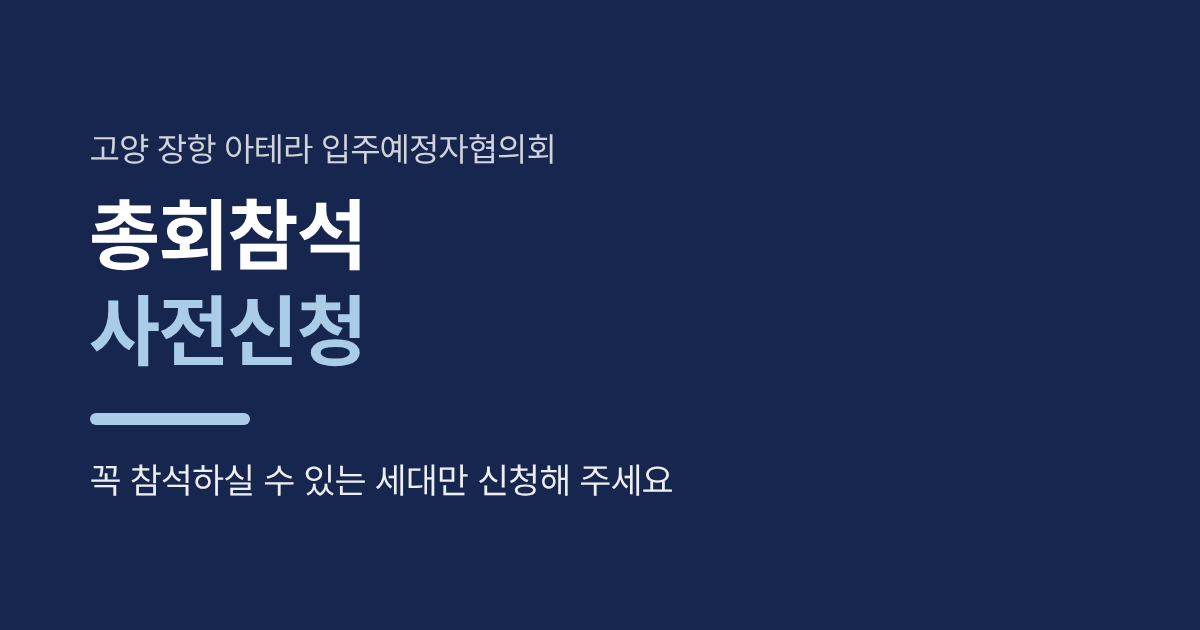
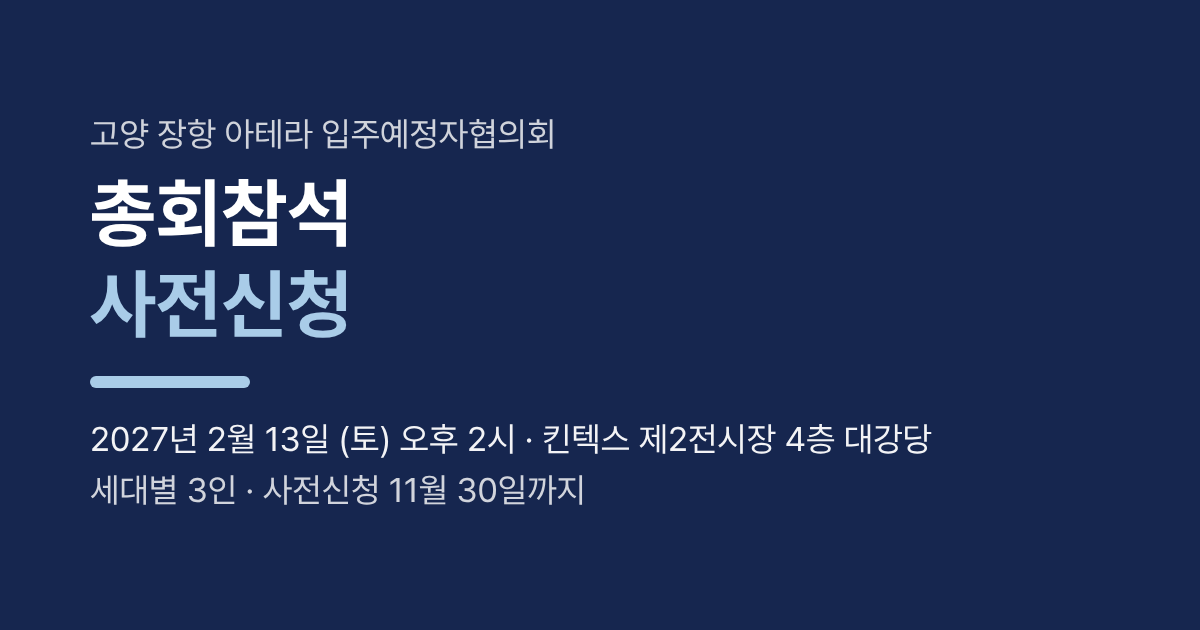
총회 일정 확정 반영(2027.2.13 킨텍스 · 세대별 3인 · 사전신청 11.30까지 · 기존 신청 인원 변경 안내)
Claude-Session: https://claude.ai/code/session_013B34XReFhMktPE2pUURqEZ

Changed region(s): [[0.0617, 0.181, 0.7708, 0.8143]]

diff --git a/index.html b/index.html
@@ -566,14 +566,16 @@ window.JLDeed=deed;   /* 점검용 — 동의서 1장 그리기 */
 Install.init();
 /* ═════════ 총회참석 사전신청 (별도 링크 rsvp.html) ═════════ */
 var RV={};
+/* 서버가 아직 2명 제한(이전 워커)일 때 3명 신청 안내 */
+function rvMsg(j,cn){return cn>2&&/1~2명/.test(j.message||'')?'3명 신청은 서버 반영 중입니다. 잠시 후 다시 시도해 주세요 (2명 이하는 바로 신청 · 변경 가능)':j.message}
 function rvInfo(){return '<div class="card"><h2>총회 안내</h2>'+
-  '<div class="stmt">본 신청은 <b>사전접수</b>로, 현장에서 사전 접수한 세대 확인 후 입장이 가능합니다. 또한 조사된 인원에 맞춰 장소를 대관하고자 합니다.<br>총회에는 많은 비용이 소요되니 <b>꼭 참석하실 수 있는 세대만</b> 신청해 주셔야 하며, 입주 관련 중요한 사안에 대한 설명회가 진행되오니 각 세대별 꼭 참석해 주시기 바랍니다.</div>'+
+  '<div class="stmt">본 신청은 <b>사전접수</b>로, 현장에서 사전 접수한 세대 확인 후 입장이 가능합니다. 사전신청은 <b>2026년 11월 30일까지</b> 받아 최종 참석 인원을 확정합니다.<br>총회에는 많은 비용이 소요되니 <b>꼭 참석하실 수 있는 세대만</b> 신청해 주셔야 하며, 입주 관련 중요한 사안에 대한 설명회가 진행되오니 각 세대별 꼭 참석해 주시기 바랍니다.</div>'+
   '<h3 style="margin:14px 0 4px">총회 가이드</h3><table class="rv-t">'+
-  '<tr><th>일시</th><td>2027년 2월 13일 또는 20일 (토)<br>오후 1시부터 약 3시간</td></tr>'+
-  '<tr><th>장소</th><td>일산 또는 일산 근접 지역<br><span class="muted">(추후 세부 공지 예정)</span></td></tr>'+
-  '<tr><th>참석 제한</th><td>세대별 <b>2명</b>까지</td></tr>'+
+  '<tr><th>일시</th><td><b>2027년 2월 13일 (토)</b><br>오후 2시 ~ 5시</td></tr>'+
+  '<tr><th>장소</th><td><b>킨텍스 제2전시장 4층 대강당</b><br>(403~404호 · 총 600석)</td></tr>'+
+  '<tr><th>참석 제한</th><td>세대별 <b>3인</b><br><span class="muted">(총 좌석이 600석으로 선착순 입장이며, 좌석 부족 시 입식 참여 가능합니다.)</span></td></tr>'+'<tr><th>사전신청 마감</th><td><b>2026년 11월 30일</b>까지</td></tr>'+
   '<tr><th>총회 안건</th><td><ul class="rv-ul"><li>입예협 활동 보고 및 계획</li><li>사전점검 및 입주 본박람회 안내</li><li>인테리어 가이드</li><li>대출 및 소유권이전등기 안내 및 지원</li></ul></td></tr></table>'+
-  '<div id="rvCnt"></div></div>'}
+  '<div class="stmt" style="margin-top:12px"><b>이미 사전신청하신 세대</b>도 아래 「내 사전신청 확인 · 변경 · 취소」에서 참석 인원을 <b>최대 3명</b>까지 바꾸실 수 있습니다.</div><button class="btn ghost" id="mineTop" style="margin-top:10px">이미 신청하셨나요? 인원 변경 · 취소</button>'+'<div id="rvCnt"></div></div>'}
 function rvForm(){
   var dongs=Object.keys(L);
   h(head()+'<div class="wrap">'+rvInfo()+
@@ -582,14 +584,14 @@ function rvForm(){
   '<label class="f">호수</label><select class="t" id="ho"></select>'+
   '<label class="f">이름</label><input class="t" id="nm" autocomplete="name" maxlength="20" value="'+esc(RV.name)+'">'+
   '<div class="row2"><div><label class="f">연락처</label><input class="t" id="ph" inputmode="tel" placeholder="01012345678" maxlength="13" value="'+esc(digits(RV.phone))+'"></div>'+
-  '<div><label class="f">참석 인원</label><select class="t" id="cn">'+[1,2].map(function(n){return'<option value="'+n+'"'+(+RV.count===n?' selected':'')+'>'+n+'명</option>'}).join('')+'</select></div></div>'+
-  '<p class="muted" style="margin:6px 0 0">참석 인원은 세대별 최대 2명입니다.</p>'+
+  '<div><label class="f">참석 인원</label><select class="t" id="cn">'+[1,2,3].map(function(n){return'<option value="'+n+'"'+(+RV.count===n?' selected':'')+'>'+n+'명</option>'}).join('')+'</select></div></div>'+
+  '<p class="muted" style="margin:6px 0 0">참석 인원은 세대별 최대 3명입니다. (총 600석 · 선착순 입장 · 좌석 부족 시 입식 참여)</p>'+
   '<label class="tog"><input type="checkbox" id="su"> 꼭 참석할 수 있습니다</label>'+
-  '<div class="pv"><b>수집 항목</b> 동호수, 이름, 연락처, 참석 인원<br><b>이용 목적</b> 총회 참석 인원 파악 및 장소 대관 · 총회 안내 연락<br><b>보관 기간</b> 총회가 끝날 때까지 (끝나면 지체 없이 파기)<br>동의하지 않으실 수 있으나, 이 경우 온라인 신청이 되지 않습니다.</div>'+
+  '<div class="pv"><b>수집 항목</b> 동호수, 이름, 연락처, 참석 인원<br><b>이용 목적</b> 총회 참석 인원 파악 · 입장 확인 · 총회 안내 연락<br><b>보관 기간</b> 총회가 끝날 때까지 (끝나면 지체 없이 파기)<br>동의하지 않으실 수 있으나, 이 경우 온라인 신청이 되지 않습니다.</div>'+
   '<label class="tog"><input type="checkbox" id="pv"> 개인정보 수집 · 이용에 동의합니다</label>'+
   '<div class="err" id="er"></div><button class="btn go-pulse" id="go">총회참석 사전신청</button></div>'+
   '<div class="card"><h2>이미 사전신청하셨나요?</h2><p class="muted" style="margin:0">인원 변경 · 사전신청 취소가 가능합니다.</p><button class="btn ghost" id="mine">내 사전신청 확인 · 변경 · 취소</button></div>'+foot()+'</div>');
-  $('#mine').onclick=function(){rvMine()};
+  $('#mine').onclick=function(){rvMine()};$('#mineTop').onclick=function(){rvMine()};
   function fillHo(){var x=$('#ho');if(!RV.dong){x.innerHTML='<option value="">동을 먼저 고르세요</option>';x.disabled=true;return}
     x.disabled=false;x.innerHTML='<option value="">호수 선택</option>'+hos(RV.dong).map(function(n){return'<option'+(String(n)===String(RV.ho)?' selected':'')+'>'+n+'</option>'}).join('')}
   Array.prototype.forEach.call(document.querySelectorAll('.dongs button'),function(b){b.onclick=function(){RV.dong=b.getAttribute('data-d');RV.ho='';Array.prototype.forEach.call(document.querySelectorAll('.dongs button'),function(x){x.classList.toggle('on',x===b)});fillHo()}});
@@ -604,14 +606,14 @@ function rvForm(){
     if(!$('#pv').checked)return er.textContent='개인정보 수집 · 이용에 동의해 주셔야 신청할 수 있습니다';
     RV.ho=ho;RV.name=nm;RV.phone=ph;RV.count=cn;b.disabled=true;b.textContent='신청 중…';er.textContent='';
     post('/rsvp',{dong:RV.dong,ho:ho,name:nm,phone:ph,count:cn,sure:true,privacy:true}).then(function(j){
-      if(!j.ok){b.disabled=false;b.textContent='총회참석 사전신청';er.textContent=j._s===404?'신청 접수 준비 중입니다. 잠시 후 다시 시도해 주세요':j.message;return}
+      if(!j.ok){b.disabled=false;b.textContent='총회참석 사전신청';er.textContent=j._s===404?'신청 접수 준비 중입니다. 잠시 후 다시 시도해 주세요':rvMsg(j,cn);return}
       rvDone('사전신청되었습니다',RV.dong+'동 '+ho+'호 · '+nm+' · '+cn+'명',j.no);
     });
   };
 }
 function rvDone(title,line,no){
   h(head()+'<div class="wrap"><div class="card done"><div class="ic">✓</div><h2>'+esc(title)+'</h2><p class="muted">'+esc(line)+(no?'<br>접수번호 '+esc(no):'')+'</p>'+
-    '<p class="muted">총회 일시 · 장소가 확정되면 카페와 연락처로 안내드립니다.<br>인원 변경 · 취소는 「내 사전신청 확인」에서 할 수 있습니다.</p>'+
+    '<p class="muted">총회 : 2027년 2월 13일 (토) 오후 2시 ~ 5시 · 킨텍스 제2전시장 4층 대강당 (403~404호)<br>인원 변경(최대 3명) · 취소는 「내 사전신청 확인」에서 할 수 있습니다. (사전신청 마감 2026년 11월 30일)</p>'+
     '<button class="btn ghost" id="mine">내 사전신청 확인 · 변경 · 취소</button><button class="btn ghost" id="again">다른 세대 사전신청</button><a class="btn ghost" href="'+esc(C.cafe)+'" target="_blank" rel="noopener">네이버 카페</a></div>'+foot()+'</div>');
   $('#again').onclick=function(){RV={};rvForm()};$('#mine').onclick=function(){rvMine()};
 }
@@ -639,12 +641,12 @@ function rvMine(){
 function rvMineEdit(r){
   h(head()+'<div class="wrap"><div class="card"><h2>내 사전신청</h2><table class="rv-t"><tr><th>동호수</th><td>'+esc(r.dong+'동 '+r.ho+'호')+'</td></tr><tr><th>이름</th><td>'+esc(r.name)+'</td></tr>'+
   '<tr><th>참석 인원</th><td><b>'+esc(r.count)+'명</b></td></tr><tr><th>신청 일시</th><td>'+esc(r.at)+'</td></tr></table>'+
-  '<h3>참석 인원 변경</h3><div class="row2"><select class="t" id="cn">'+[1,2].map(function(n){return'<option value="'+n+'"'+(+r.count===n?' selected':'')+'>'+n+'명</option>'}).join('')+'</select><button class="btn" id="chg" style="margin-top:6px">인원 변경</button></div>'+
-  '<h3>사전신청 취소</h3><p class="muted" style="margin:0">참석이 어려워지셨다면 취소해 주세요. 대관 인원에서 빠집니다.</p><button class="btn ghost" id="cx" style="color:var(--no);border-color:var(--no)">사전신청 취소</button>'+
+  '<h3>참석 인원 변경</h3><p class="muted" style="margin:0 0 6px">세대별 최대 3명까지 바꿀 수 있습니다.</p><div class="row2"><select class="t" id="cn">'+[1,2,3].map(function(n){return'<option value="'+n+'"'+(+r.count===n?' selected':'')+'>'+n+'명</option>'}).join('')+'</select><button class="btn" id="chg" style="margin-top:6px">인원 변경</button></div>'+
+  '<h3>사전신청 취소</h3><p class="muted" style="margin:0">참석이 어려워지셨다면 취소해 주세요. 참석 인원에서 빠집니다.</p><button class="btn ghost" id="cx" style="color:var(--no);border-color:var(--no)">사전신청 취소</button>'+
   '<div class="err" id="er"></div><button class="btn ghost" id="bk">신청 화면으로</button></div>'+foot()+'</div>');
   $('#bk').onclick=function(){rvForm()};
   $('#chg').onclick=function(){var b=this,cn=+$('#cn').value;if(cn===+r.count)return $('#er').textContent='지금과 같은 인원입니다';b.disabled=true;
-    post('/rsvp-edit',{dong:r.dong,ho:r.ho,phone:MY.phone,count:cn}).then(function(j){b.disabled=false;if(!j.ok)return $('#er').textContent=j.message;rvDone('참석 인원이 변경되었습니다',r.dong+'동 '+r.ho+'호 · '+r.name+' · '+cn+'명',j.no)})};
+    post('/rsvp-edit',{dong:r.dong,ho:r.ho,phone:MY.phone,count:cn}).then(function(j){b.disabled=false;if(!j.ok)return $('#er').textContent=rvMsg(j,cn);rvDone('참석 인원이 변경되었습니다',r.dong+'동 '+r.ho+'호 · '+r.name+' · '+cn+'명',j.no)})};
   $('#cx').onclick=function(){if(!confirm(r.dong+'동 '+r.ho+'호 총회참석 사전신청을 취소할까요?'))return;var b=this;b.disabled=true;
     post('/rsvp-edit',{dong:r.dong,ho:r.ho,phone:MY.phone,cancel:true}).then(function(j){b.disabled=false;if(!j.ok)return $('#er').textContent=j.message;
       h(head()+'<div class="wrap"><div class="card done"><div class="ic" style="background:#6A7385">✕</div><h2>신청이 취소되었습니다</h2><p class="muted">'+esc(r.dong+'동 '+r.ho+'호')+'</p><button class="btn ghost" id="again">다시 사전신청</button></div>'+foot()+'</div>');$('#again').onclick=function(){RV={};rvForm()}})};

diff --git a/rsvp.html b/rsvp.html
@@ -566,14 +566,16 @@ window.JLDeed=deed;   /* 점검용 — 동의서 1장 그리기 */
 Install.init();
 /* ═════════ 총회참석 사전신청 (별도 링크 rsvp.html) ═════════ */
 var RV={};
+/* 서버가 아직 2명 제한(이전 워커)일 때 3명 신청 안내 */
+function rvMsg(j,cn){return cn>2&&/1~2명/.test(j.message||'')?'3명 신청은 서버 반영 중입니다. 잠시 후 다시 시도해 주세요 (2명 이하는 바로 신청 · 변경 가능)':j.message}
 function rvInfo(){return '<div class="card"><h2>총회 안내</h2>'+
-  '<div class="stmt">본 신청은 <b>사전접수</b>로, 현장에서 사전 접수한 세대 확인 후 입장이 가능합니다. 또한 조사된 인원에 맞춰 장소를 대관하고자 합니다.<br>총회에는 많은 비용이 소요되니 <b>꼭 참석하실 수 있는 세대만</b> 신청해 주셔야 하며, 입주 관련 중요한 사안에 대한 설명회가 진행되오니 각 세대별 꼭 참석해 주시기 바랍니다.</div>'+
+  '<div class="stmt">본 신청은 <b>사전접수</b>로, 현장에서 사전 접수한 세대 확인 후 입장이 가능합니다. 사전신청은 <b>2026년 11월 30일까지</b> 받아 최종 참석 인원을 확정합니다.<br>총회에는 많은 비용이 소요되니 <b>꼭 참석하실 수 있는 세대만</b> 신청해 주셔야 하며, 입주 관련 중요한 사안에 대한 설명회가 진행되오니 각 세대별 꼭 참석해 주시기 바랍니다.</div>'+
   '<h3 style="margin:14px 0 4px">총회 가이드</h3><table class="rv-t">'+
-  '<tr><th>일시</th><td>2027년 2월 13일 또는 20일 (토)<br>오후 1시부터 약 3시간</td></tr>'+
-  '<tr><th>장소</th><td>일산 또는 일산 근접 지역<br><span class="muted">(추후 세부 공지 예정)</span></td></tr>'+
-  '<tr><th>참석 제한</th><td>세대별 <b>2명</b>까지</td></tr>'+
+  '<tr><th>일시</th><td><b>2027년 2월 13일 (토)</b><br>오후 2시 ~ 5시</td></tr>'+
+  '<tr><th>장소</th><td><b>킨텍스 제2전시장 4층 대강당</b><br>(403~404호 · 총 600석)</td></tr>'+
+  '<tr><th>참석 제한</th><td>세대별 <b>3인</b><br><span class="muted">(총 좌석이 600석으로 선착순 입장이며, 좌석 부족 시 입식 참여 가능합니다.)</span></td></tr>'+'<tr><th>사전신청 마감</th><td><b>2026년 11월 30일</b>까지</td></tr>'+
   '<tr><th>총회 안건</th><td><ul class="rv-ul"><li>입예협 활동 보고 및 계획</li><li>사전점검 및 입주 본박람회 안내</li><li>인테리어 가이드</li><li>대출 및 소유권이전등기 안내 및 지원</li></ul></td></tr></table>'+
-  '<div id="rvCnt"></div></div>'}
+  '<div class="stmt" style="margin-top:12px"><b>이미 사전신청하신 세대</b>도 아래 「내 사전신청 확인 · 변경 · 취소」에서 참석 인원을 <b>최대 3명</b>까지 바꾸실 수 있습니다.</div><button class="btn ghost" id="mineTop" style="margin-top:10px">이미 신청하셨나요? 인원 변경 · 취소</button>'+'<div id="rvCnt"></div></div>'}
 function rvForm(){
   var dongs=Object.keys(L);
   h(head()+'<div class="wrap">'+rvInfo()+
@@ -582,14 +584,14 @@ function rvForm(){
   '<label class="f">호수</label><select class="t" id="ho"></select>'+
   '<label class="f">이름</label><input class="t" id="nm" autocomplete="name" maxlength="20" value="'+esc(RV.name)+'">'+
   '<div class="row2"><div><label class="f">연락처</label><input class="t" id="ph" inputmode="tel" placeholder="01012345678" maxlength="13" value="'+esc(digits(RV.phone))+'"></div>'+
-  '<div><label class="f">참석 인원</label><select class="t" id="cn">'+[1,2].map(function(n){return'<option value="'+n+'"'+(+RV.count===n?' selected':'')+'>'+n+'명</option>'}).join('')+'</select></div></div>'+
-  '<p class="muted" style="margin:6px 0 0">참석 인원은 세대별 최대 2명입니다.</p>'+
+  '<div><label class="f">참석 인원</label><select class="t" id="cn">'+[1,2,3].map(function(n){return'<option value="'+n+'"'+(+RV.count===n?' selected':'')+'>'+n+'명</option>'}).join('')+'</select></div></div>'+
+  '<p class="muted" style="margin:6px 0 0">참석 인원은 세대별 최대 3명입니다. (총 600석 · 선착순 입장 · 좌석 부족 시 입식 참여)</p>'+
   '<label class="tog"><input type="checkbox" id="su"> 꼭 참석할 수 있습니다</label>'+
-  '<div class="pv"><b>수집 항목</b> 동호수, 이름, 연락처, 참석 인원<br><b>이용 목적</b> 총회 참석 인원 파악 및 장소 대관 · 총회 안내 연락<br><b>보관 기간</b> 총회가 끝날 때까지 (끝나면 지체 없이 파기)<br>동의하지 않으실 수 있으나, 이 경우 온라인 신청이 되지 않습니다.</div>'+
+  '<div class="pv"><b>수집 항목</b> 동호수, 이름, 연락처, 참석 인원<br><b>이용 목적</b> 총회 참석 인원 파악 · 입장 확인 · 총회 안내 연락<br><b>보관 기간</b> 총회가 끝날 때까지 (끝나면 지체 없이 파기)<br>동의하지 않으실 수 있으나, 이 경우 온라인 신청이 되지 않습니다.</div>'+
   '<label class="tog"><input type="checkbox" id="pv"> 개인정보 수집 · 이용에 동의합니다</label>'+
   '<div class="err" id="er"></div><button class="btn go-pulse" id="go">총회참석 사전신청</button></div>'+
   '<div class="card"><h2>이미 사전신청하셨나요?</h2><p class="muted" style="margin:0">인원 변경 · 사전신청 취소가 가능합니다.</p><button class="btn ghost" id="mine">내 사전신청 확인 · 변경 · 취소</button></div>'+foot()+'</div>');
-  $('#mine').onclick=function(){rvMine()};
+  $('#mine').onclick=function(){rvMine()};$('#mineTop').onclick=function(){rvMine()};
   function fillHo(){var x=$('#ho');if(!RV.dong){x.innerHTML='<option value="">동을 먼저 고르세요</option>';x.disabled=true;return}
     x.disabled=false;x.innerHTML='<option value="">호수 선택</option>'+hos(RV.dong).map(function(n){return'<option'+(String(n)===String(RV.ho)?' selected':'')+'>'+n+'</option>'}).join('')}
   Array.prototype.forEach.call(document.querySelectorAll('.dongs button'),function(b){b.onclick=function(){RV.dong=b.getAttribute('data-d');RV.ho='';Array.prototype.forEach.call(document.querySelectorAll('.dongs button'),function(x){x.classList.toggle('on',x===b)});fillHo()}});
@@ -604,14 +606,14 @@ function rvForm(){
     if(!$('#pv').checked)return er.textContent='개인정보 수집 · 이용에 동의해 주셔야 신청할 수 있습니다';
     RV.ho=ho;RV.name=nm;RV.phone=ph;RV.count=cn;b.disabled=true;b.textContent='신청 중…';er.textContent='';
     post('/rsvp',{dong:RV.dong,ho:ho,name:nm,phone:ph,count:cn,sure:true,privacy:true}).then(function(j){
-      if(!j.ok){b.disabled=false;b.textContent='총회참석 사전신청';er.textContent=j._s===404?'신청 접수 준비 중입니다. 잠시 후 다시 시도해 주세요':j.message;return}
+      if(!j.ok){b.disabled=false;b.textContent='총회참석 사전신청';er.textContent=j._s===404?'신청 접수 준비 중입니다. 잠시 후 다시 시도해 주세요':rvMsg(j,cn);return}
       rvDone('사전신청되었습니다',RV.dong+'동 '+ho+'호 · '+nm+' · '+cn+'명',j.no);
     });
   };
 }
 function rvDone(title,line,no){
   h(head()+'<div class="wrap"><div class="card done"><div class="ic">✓</div><h2>'+esc(title)+'</h2><p class="muted">'+esc(line)+(no?'<br>접수번호 '+esc(no):'')+'</p>'+
-    '<p class="muted">총회 일시 · 장소가 확정되면 카페와 연락처로 안내드립니다.<br>인원 변경 · 취소는 「내 사전신청 확인」에서 할 수 있습니다.</p>'+
+    '<p class="muted">총회 : 2027년 2월 13일 (토) 오후 2시 ~ 5시 · 킨텍스 제2전시장 4층 대강당 (403~404호)<br>인원 변경(최대 3명) · 취소는 「내 사전신청 확인」에서 할 수 있습니다. (사전신청 마감 2026년 11월 30일)</p>'+
     '<button class="btn ghost" id="mine">내 사전신청 확인 · 변경 · 취소</button><button class="btn ghost" id="again">다른 세대 사전신청</button><a class="btn ghost" href="'+esc(C.cafe)+'" target="_blank" rel="noopener">네이버 카페</a></div>'+foot()+'</div>');
   $('#again').onclick=function(){RV={};rvForm()};$('#mine').onclick=function(){rvMine()};
 }
@@ -639,12 +641,12 @@ function rvMine(){
 function rvMineEdit(r){
   h(head()+'<div class="wrap"><div class="card"><h2>내 사전신청</h2><table class="rv-t"><tr><th>동호수</th><td>'+esc(r.dong+'동 '+r.ho+'호')+'</td></tr><tr><th>이름</th><td>'+esc(r.name)+'</td></tr>'+
   '<tr><th>참석 인원</th><td><b>'+esc(r.count)+'명</b></td></tr><tr><th>신청 일시</th><td>'+esc(r.at)+'</td></tr></table>'+
-  '<h3>참석 인원 변경</h3><div class="row2"><select class="t" id="cn">'+[1,2].map(function(n){return'<option value="'+n+'"'+(+r.count===n?' selected':'')+'>'+n+'명</option>'}).join('')+'</select><button class="btn" id="chg" style="margin-top:6px">인원 변경</button></div>'+
-  '<h3>사전신청 취소</h3><p class="muted" style="margin:0">참석이 어려워지셨다면 취소해 주세요. 대관 인원에서 빠집니다.</p><button class="btn ghost" id="cx" style="color:var(--no);border-color:var(--no)">사전신청 취소</button>'+
+  '<h3>참석 인원 변경</h3><p class="muted" style="margin:0 0 6px">세대별 최대 3명까지 바꿀 수 있습니다.</p><div class="row2"><select class="t" id="cn">'+[1,2,3].map(function(n){return'<option value="'+n+'"'+(+r.count===n?' selected':'')+'>'+n+'명</option>'}).join('')+'</select><button class="btn" id="chg" style="margin-top:6px">인원 변경</button></div>'+
+  '<h3>사전신청 취소</h3><p class="muted" style="margin:0">참석이 어려워지셨다면 취소해 주세요. 참석 인원에서 빠집니다.</p><button class="btn ghost" id="cx" style="color:var(--no);border-color:var(--no)">사전신청 취소</button>'+
   '<div class="err" id="er"></div><button class="btn ghost" id="bk">신청 화면으로</button></div>'+foot()+'</div>');
   $('#bk').onclick=function(){rvForm()};
   $('#chg').onclick=function(){var b=this,cn=+$('#cn').value;if(cn===+r.count)return $('#er').textContent='지금과 같은 인원입니다';b.disabled=true;
-    post('/rsvp-edit',{dong:r.dong,ho:r.ho,phone:MY.phone,count:cn}).then(function(j){b.disabled=false;if(!j.ok)return $('#er').textContent=j.message;rvDone('참석 인원이 변경되었습니다',r.dong+'동 '+r.ho+'호 · '+r.name+' · '+cn+'명',j.no)})};
+    post('/rsvp-edit',{dong:r.dong,ho:r.ho,phone:MY.phone,count:cn}).then(function(j){b.disabled=false;if(!j.ok)return $('#er').textContent=rvMsg(j,cn);rvDone('참석 인원이 변경되었습니다',r.dong+'동 '+r.ho+'호 · '+r.name+' · '+cn+'명',j.no)})};
   $('#cx').onclick=function(){if(!confirm(r.dong+'동 '+r.ho+'호 총회참석 사전신청을 취소할까요?'))return;var b=this;b.disabled=true;
     post('/rsvp-edit',{dong:r.dong,ho:r.ho,phone:MY.phone,cancel:true}).then(function(j){b.disabled=false;if(!j.ok)return $('#er').textContent=j.message;
       h(head()+'<div class="wrap"><div class="card done"><div class="ic" style="background:#6A7385">✕</div><h2>신청이 취소되었습니다</h2><p class="muted">'+esc(r.dong+'동 '+r.ho+'호')+'</p><button class="btn ghost" id="again">다시 사전신청</button></div>'+foot()+'</div>');$('#again').onclick=function(){RV={};rvForm()}})};

diff --git a/sw.js b/sw.js
@@ -1,6 +1,6 @@
 /* 입주예정자협의회 플랫폼 — 서비스 워커
    화면을 기기에 담아두어, 신호가 약한 곳에서도 즉시 열리게 합니다. */
-var CACHE = 'jl-goyang-atera-adm-202610260912';
+var CACHE = 'jl-goyang-atera-adm-202611121010';
 var SHELL = ['./', './index.html', './icon-192.png', './icon-512.png', './rsvp.html', './fonts/Pretendard-Regular.subset.woff2', './manifest.json'];
 
 self.addEventListener('install', function (e) {
